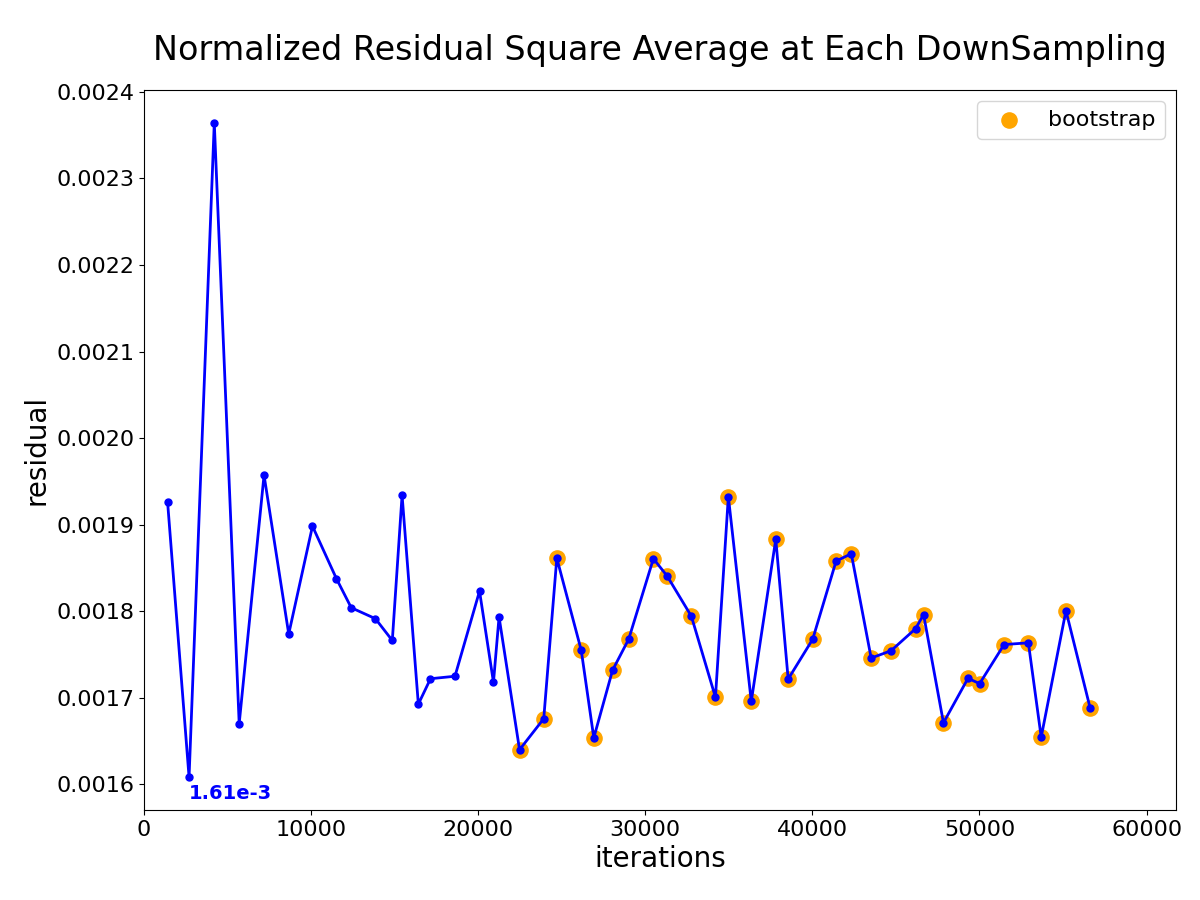
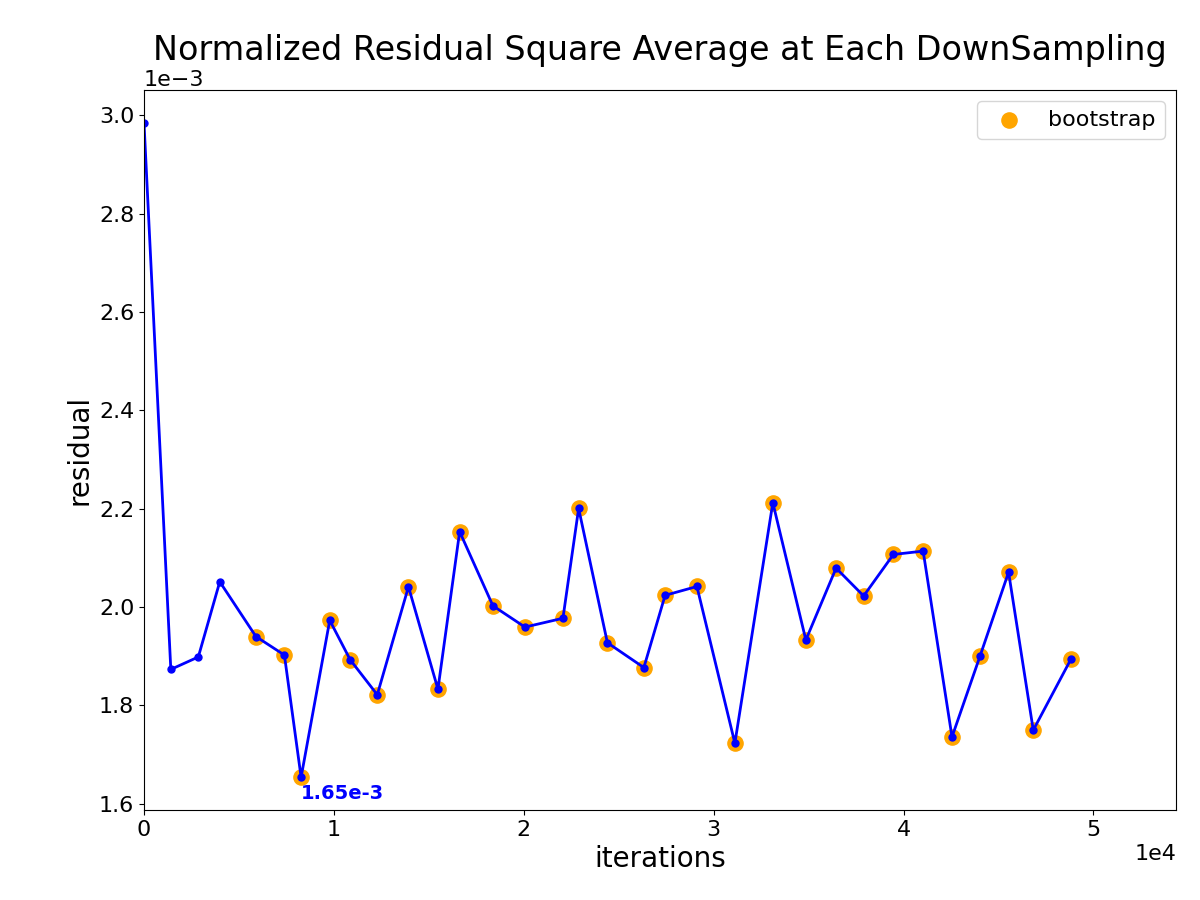
- updating the plots

diff --git a/parametricFit2D.py b/parametricFit2D.py
@@ -770,7 +770,7 @@ def example_parametricFit2D():
     downSampling=[  ["Opt",  1000,   0,      None, None],\
                   *[["Opt",  1000,   1000,   None, None]]*2,\
                     ["Opt",  np.inf, np.inf, None, None],\
-                  *[["Boot", np.inf, 200,    None, None]]*30]
+                  *[["Boot", 1000,   np.inf,    None, None]]*30]
     #downSampling = getInstantPlotDownSampling(downSampling=downSampling); saveProg=False 
 
     parXYOpt, parXYErr, res2AveVal = paraLeastSquare([initX, initY], funcXY, data, rangeXY,\
@@ -791,20 +791,6 @@ def example_parametricFit2D():
     parXYErr[2] = progressDict["parErrCovMatrix"] 
     res2AveVal  = progressDict["iterErr2"][-1][-1][1] 
     '''
-    
-    #################################
-    '''
-    progressDict["parErrCovMatrix"]=np.cov(np.array(progressDict["parXBoot"]+progressDict["parYBoot"]))
-    #print(progressDict["parXBoot"]+progressDict["parYBoot"]) 
-    print([str.format("{0:.3e}", val*val)\
-           for val in (progressDict["parXErr"]+progressDict["parYErr"])], "\n")
-    for i in range(len(progressDict["parErrCovMatrix"])): 
-        print([str.format("{0:.3e}", val) for val in [progressDict["parErrCovMatrix"][i][i]]])
-    parXYErr[2] = progressDict["parErrCovMatrix"]
-    '''
-    ################################
-
-
 
     fitT = np.linspace(paraRange[0], paraRange[-1], binN+1)[:-1]
     fitCurveX = funcXY[0](fitT, parXYOpt[0])
@@ -841,15 +827,15 @@ def example_parametricFit2D():
     ax[0].set_xlim(*rangeXY[0])
     ax[0].set_ylim(*rangeXY[1])
 
-    errCurveN = 1000
+    errCurveN = 100
     print("Sampling the fit curve from the parameter standard errors...", end="\r" )
     parXN, parYN = len(parXYOpt[0]), len(parXYOpt[1])
     parXYOptSamps = np.random.multivariate_normal(parXYOpt[0]+parXYOpt[1], parXYErr[2], size=errCurveN)
     for parXYOptSamp in parXYOptSamps:
         sampFitCurveX = funcXY[0](fitT, parXYOptSamp[:parXN])
         sampFitCurveY = funcXY[1](fitT, parXYOptSamp[parXN:]) 
-        plotFitted = ax[1].plot(sampFitCurveX, sampFitCurveY, linewidth=4, color="red", alpha=0.1)[0]
-    plotGiven = ax[1].plot(curveX, curveY, linewidth=5, color="blue")[0]
+        plotFitted = ax[1].plot(sampFitCurveX, sampFitCurveY, linewidth=3, color="red", alpha=0.1)[0]
+    plotGiven = ax[1].plot(curveX, curveY, linewidth=3, color="blue")[0]
     ax[1].set_title("Parametric Curve: Given vs Fitted (sampled from fit err)", fontsize=24, y=1.03)
     ax[1].set_xlabel("x", fontsize=20)
     ax[1].set_ylabel("y", fontsize=20)
